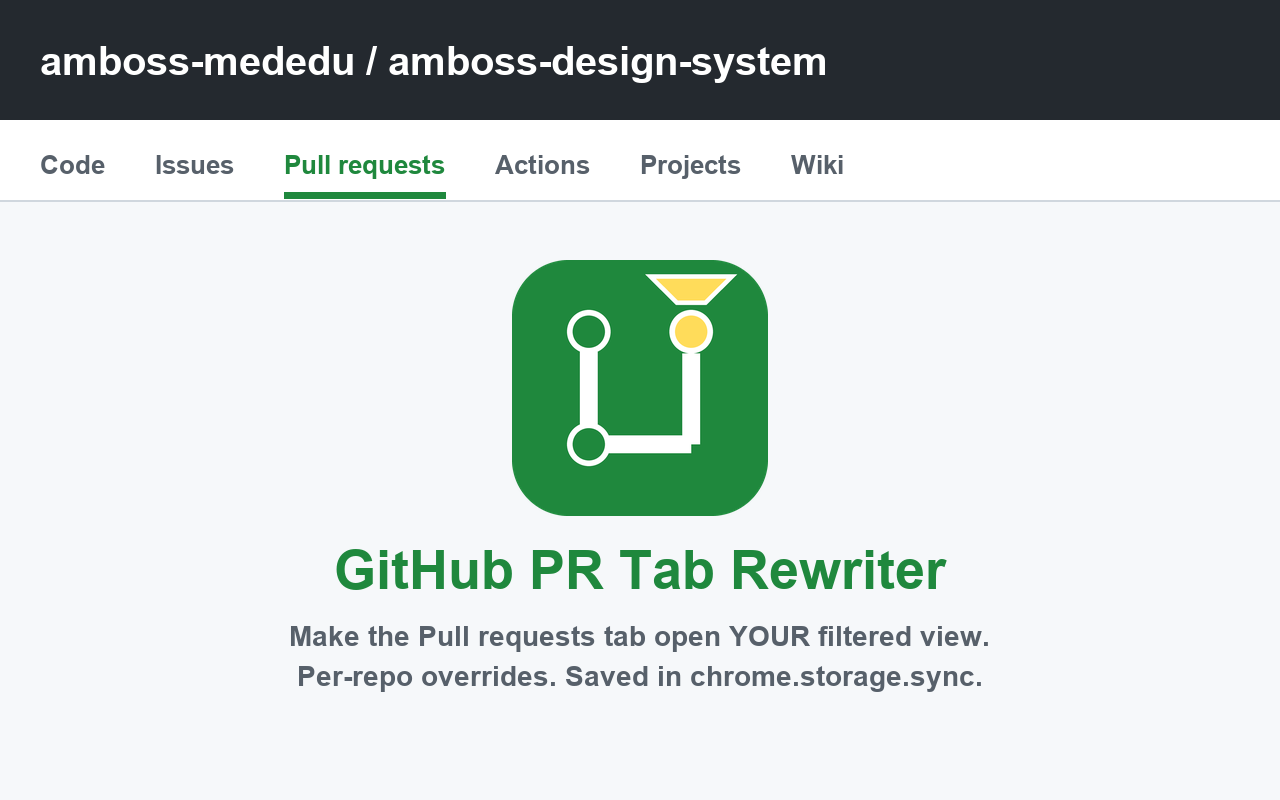
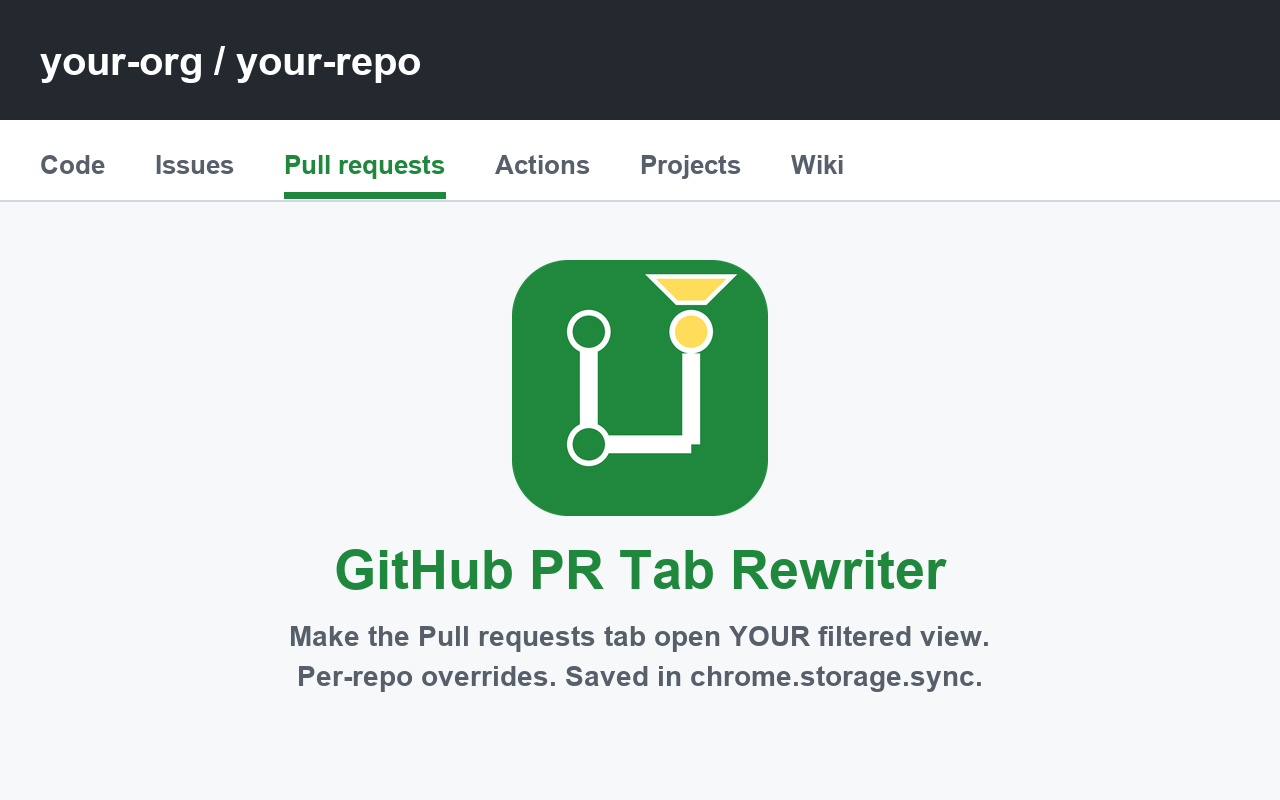
Remove make_icons.py script
Icons and store screenshot are committed; the regenerator script is no
longer needed in the repo. Also commits the regenerated screenshot with
generic placeholder repo name.

Changed region(s): [[0.0312, 0.0625, 0.6562, 0.0938]]

diff --git a/README.md b/README.md
@@ -69,11 +69,9 @@ No data leaves your browser.
 ├── options.html/.js  # full list editor
 ├── icons/            # 16/48/128 PNG icons
 └── scripts/
-    ├── make_icons.py # regenerate icons + promo screenshot
     └── pack.sh       # build .zip for Chrome Web Store
 ```
 
-Regenerate icons: `python3 scripts/make_icons.py`
 Pack for Web Store: `./scripts/pack.sh`
 
 ## License
